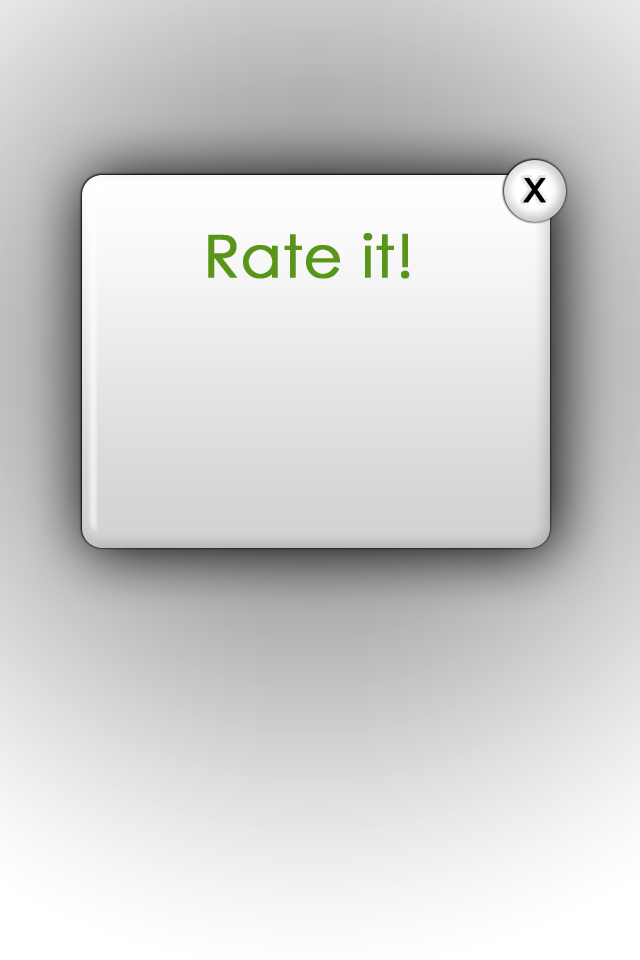
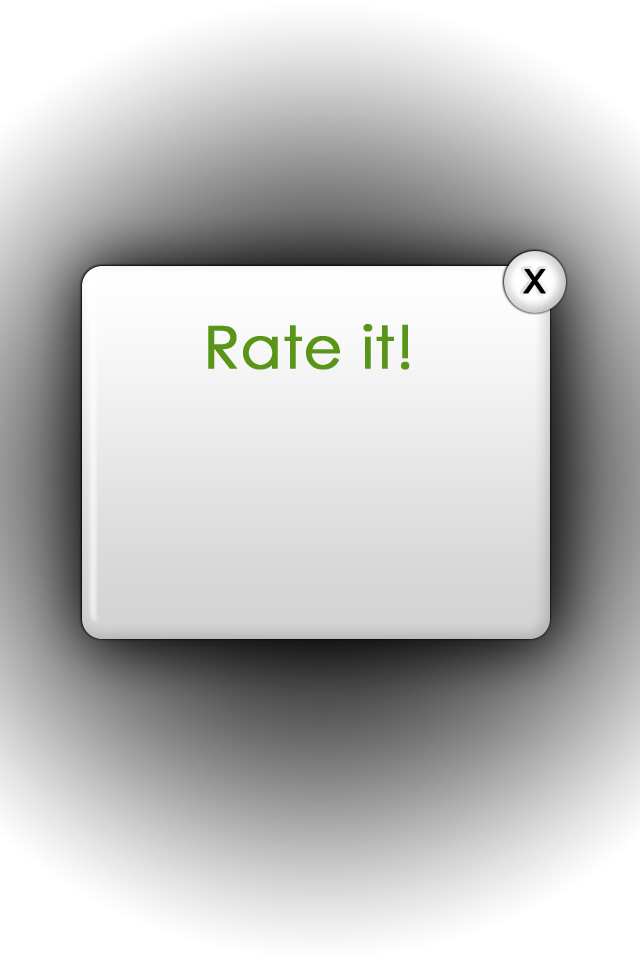
updated rating box, updated images on dish pages

diff --git a/iRestaurant/DishHeaderCell.m b/iRestaurant/DishHeaderCell.m
@@ -17,7 +17,7 @@
 
 @implementation DishHeaderCell
 
-@synthesize name, price, ratingView, restaurantName, svimage, viewForScrollView;
+@synthesize name, price, ratingView, restaurantName, svimage, viewForScrollView, singleImageView;
 
 - (id)initWithStyle:(UITableViewCellStyle)style reuseIdentifier:(NSString *)reuseIdentifier
 {
@@ -100,23 +100,43 @@
         [imageView setImageWithURL:[NSURL URLWithString:[arrayOfURLStrings objectAtIndex:i]] placeholderImage:noImage];
         [imageViewArray addObject:imageView];
     }
-    
+        
     if ([arrayOfURLStrings count] == 0) {
-        UIImageView *imageView = [[UIImageView alloc]initWithImage:noImage];
-        [imageViewArray addObject:imageView];
+        singleImageView = [[UIImageView alloc]initWithFrame:CGRectMake(10, 85, 300, 300)];
+        singleImageView.image = noImage;
+        singleImageView.layer.borderColor = [UIColor lightGrayColor].CGColor;
+        singleImageView.layer.borderWidth = 1;
+        [self.contentView addSubview:singleImageView];
+        
+    } else if ([arrayOfURLStrings count] == 1) {
+        singleImageView = [[UIImageView alloc]initWithFrame:CGRectMake(10, 85, 300, 300)];
+        [singleImageView setImageWithURL:[NSURL URLWithString:[arrayOfURLStrings objectAtIndex:0]] placeholderImage:noImage];
+        singleImageView.layer.borderColor = [UIColor lightGrayColor].CGColor;
+        singleImageView.layer.borderWidth = 1;
+        [self.contentView addSubview:singleImageView];
+        
+    } else {
+        
+        for (UIView *view in self.contentView.subviews) {
+            if (view == singleImageView) {
+                [singleImageView removeFromSuperview];
+            }
+        }
+        
+        viewForScrollView = [[UIView alloc]initWithFrame:CGRectMake(10, 85, 300, 300)];
+        svimage = [[IGUIScrollViewImage alloc] init];  
+        [svimage setContentArray:imageViewArray]; 
+        [svimage setBackGroudColor:[UIColor clearColor]];
+        [svimage setWidth:300 andHeight:300];
+        [svimage enablePageControlOnBottom];  
+        svimage.scrollView.showsHorizontalScrollIndicator = FALSE;
+        viewForScrollView.layer.borderColor = [UIColor lightGrayColor].CGColor;
+        viewForScrollView.layer.borderWidth = 1;
+        [viewForScrollView addSubview:[svimage getWithPosition:0]];
+        [self.contentView addSubview:viewForScrollView];
     }
      
-    viewForScrollView = [[UIView alloc]initWithFrame:CGRectMake(10, 85, 300, 300)];
-    svimage = [[IGUIScrollViewImage alloc] init];  
-    [svimage setContentArray:imageViewArray]; 
-    [svimage setBackGroudColor:[UIColor clearColor]];
-    [svimage setWidth:300 andHeight:300];
-    [svimage enablePageControlOnBottom];  
-    svimage.scrollView.showsHorizontalScrollIndicator = FALSE;
-    viewForScrollView.layer.borderColor = [UIColor lightGrayColor].CGColor;
-    viewForScrollView.layer.borderWidth = 1;
-    [viewForScrollView addSubview:[svimage getWithPosition:0]];
-    [self.contentView addSubview:viewForScrollView];
+    
 }
 
 -(void)cameraButtonPressed:(id)sender {
@@ -132,6 +152,7 @@
 
 - (void)dealloc
 {
+    [singleImageView release];
     [price release];
     [ratingView release];
     [name release];

diff --git a/iRestaurant/DishHeaderCell.h b/iRestaurant/DishHeaderCell.h
@@ -19,6 +19,7 @@
     RatingView *ratingView;
     IGUIScrollViewImage *svimage;
     UIView *viewForScrollView;
+    UIImageView *singleImageView;
 }
 
 @property (nonatomic, retain) UILabel *name;
@@ -27,6 +28,7 @@
 @property (nonatomic, retain) RatingView *ratingView;
 @property (nonatomic, retain) IGUIScrollViewImage *svimage;
 @property (nonatomic, retain) UIView *viewForScrollView;
+@property (nonatomic, retain) UIImageView *singleImageView;
 
 -(void)loadMenuItem:(MenuItem *)menu_item andRestaurant:(Restaurant *)restaurant;
 -(void)cameraButtonPressed:(id)sender;
